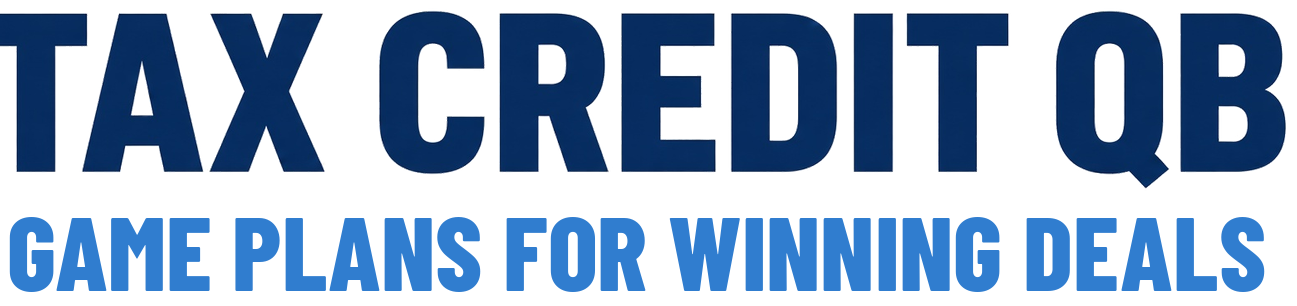
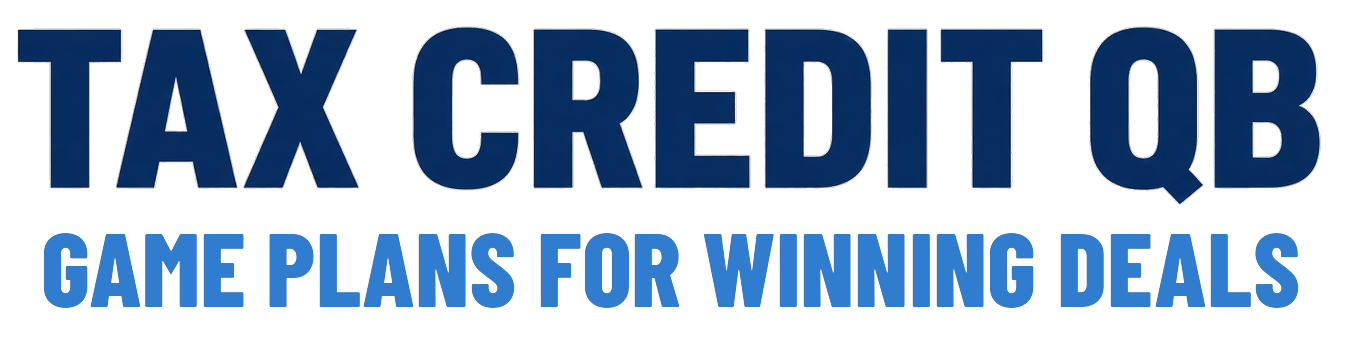
Restore the cropped T in the header wordmark.
The left arm of TAX CREDIT QB was flush with the image edge and shorter than the right arm, so it looked cut off against the shield. Rebuild that arm, pad the artwork, and keep the lockup from clipping on mobile and desktop.

diff --git a/src/components/brand-lockup.tsx b/src/components/brand-lockup.tsx
@@ -7,15 +7,18 @@ export function BrandLockup() {
     <Link
       to="/"
       aria-label="Tax Credit QB home"
-      className="col-span-3 row-start-2 flex min-w-0 items-center gap-x-2.5 self-center focus-visible:outline-2 focus-visible:outline-offset-4 focus-visible:outline-ink sm:gap-x-3"
+      className="col-span-3 row-start-2 flex min-w-0 items-center gap-x-3 self-center overflow-visible focus-visible:outline-2 focus-visible:outline-offset-4 focus-visible:outline-ink sm:gap-x-4"
     >
-      <ShieldMark className="h-16 w-auto object-contain object-left sm:h-28 md:h-32 lg:h-36 xl:h-40" />
+      <ShieldMark
+        wrapperClassName="relative z-0 shrink-0 overflow-visible"
+        className="h-16 w-auto overflow-visible object-contain object-left sm:h-28 md:h-32 lg:h-36 xl:h-40"
+      />
       <img
         src={wordmark}
         alt=""
-        width={1297}
-        height={306}
-        className="h-16 w-auto min-w-0 max-w-full object-contain object-left sm:h-28 md:h-32 lg:h-36 xl:h-40"
+        width={1347}
+        height={338}
+        className="relative z-10 h-16 w-auto min-w-0 max-w-full overflow-visible object-contain object-left sm:h-28 md:h-32 lg:h-36 xl:h-40"
       />
     </Link>
   );

diff --git a/src/components/layout/header.tsx b/src/components/layout/header.tsx
@@ -32,7 +32,7 @@ export function Header() {
 
   return (
     <header className="sticky top-0 z-50 border-b border-line bg-paper/95 backdrop-blur-sm">
-      <div className="mx-auto grid w-full max-w-7xl grid-cols-[auto_minmax(0,1fr)_auto] items-center gap-x-3 gap-y-2 px-4 py-2.5 md:px-8 md:py-3">
+      <div className="mx-auto grid w-full max-w-7xl grid-cols-[auto_minmax(0,1fr)_auto] items-center gap-x-3 gap-y-2 overflow-visible px-4 py-2.5 md:px-8 md:py-3">
         <BrandLockup />
 
         <div className="col-start-3 row-start-1 hidden shrink-0 items-center gap-2 lg:flex">
